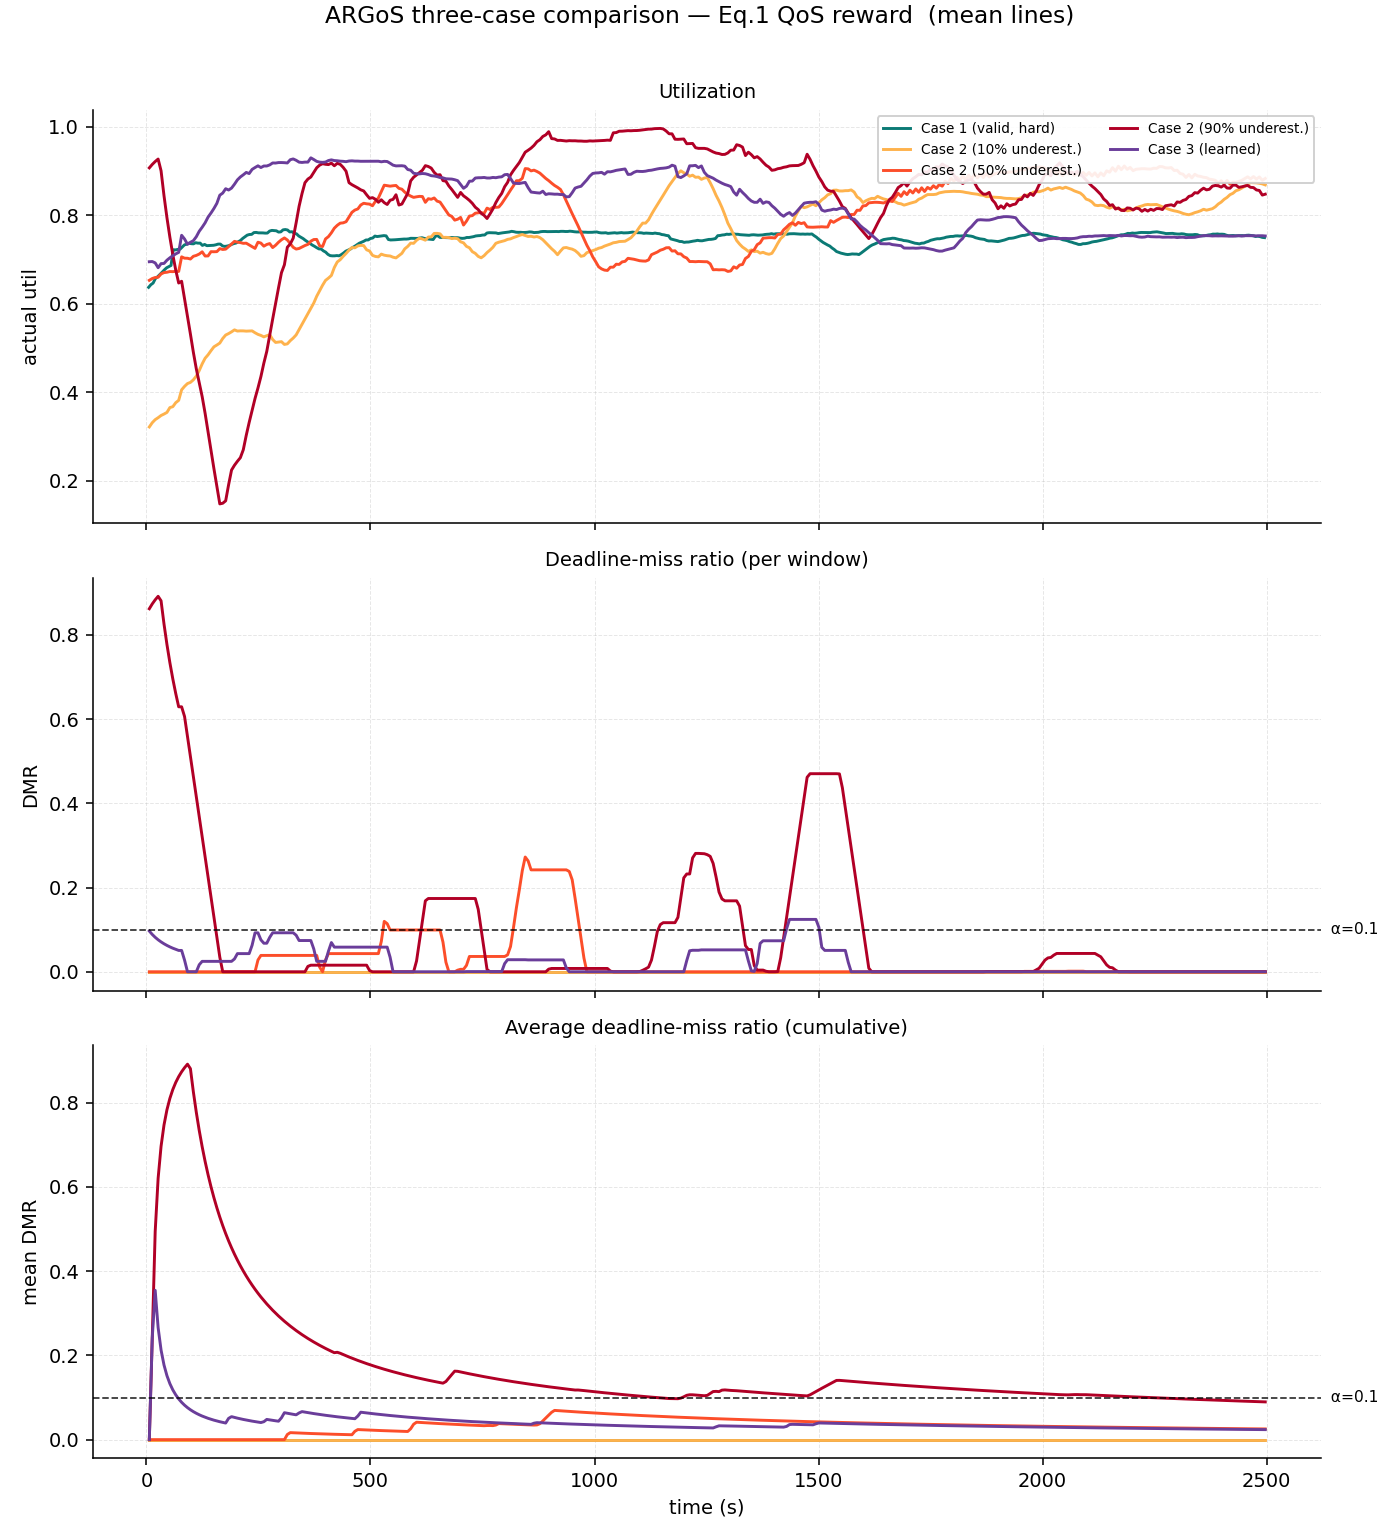
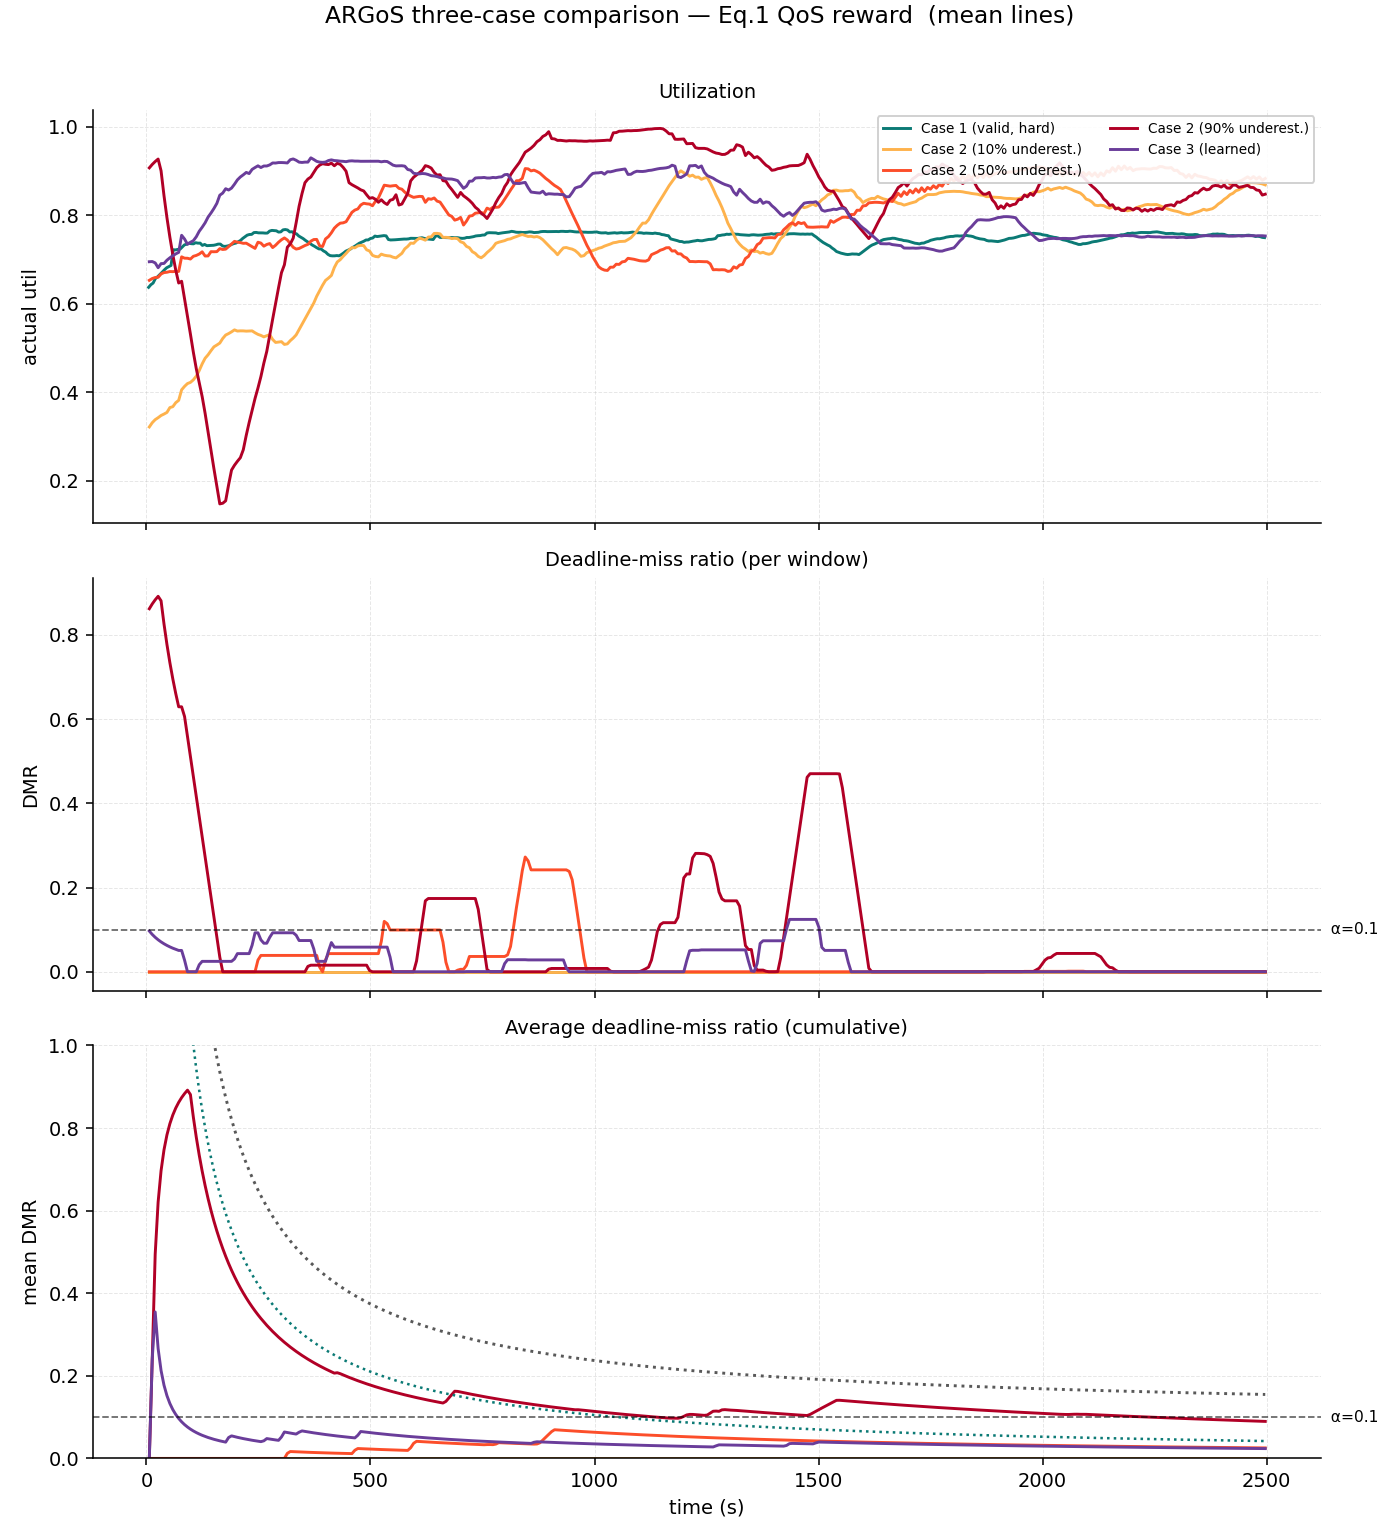
avg-DMR figure: overlay Theorem-1 bound envelopes (alpha=0.1 and alpha=0)
Add the finite-horizon Theorem-1 bound alpha + (f_max+gamma*B)/(gamma*K) as
dashed envelopes on the cumulative-average-DMR panel: one for alpha=0.1 (Cases
2 & 3), one for alpha=0 (Case 1). Every realized curve stays under its bound.
Applied to standalone and combined figures, paper + v2 sets.

diff --git a/scripts/fig_three_cases.py b/scripts/fig_three_cases.py
@@ -191,13 +191,30 @@ def plot():
     small_multiples("util", "Utilization", "actual utilization", ylim=(0, 1.05))
     small_multiples("dmr", "Deadline-miss ratio (per window)", "DMR", hline=ALPHA, ylim=(0, 1.05))
 
-    # ---- cumulative average DMR: overlaid (already smooth; cross-case comparison) ----
+    # ---- cumulative average DMR + Theorem-1 bound ----
+    # Theorem 1 (Eq.14): (1/K) Σ ℓ_k ≤ α + (f_max + γB)/(γK),  B = max(α,1-α), f_max=1, γ=0.05.
+    # Decays like 1/K toward α. Two groups: α=0.1 (Cases 2 & 3) and α=0 (Case 1).
+    GAMMA, FMAX = 0.05, 1.0
+
+    def theorem_bound(tvals, alpha):
+        B = max(alpha, 1.0 - alpha)
+        return [alpha + (FMAX + GAMMA * B) / (GAMMA * (i + 1)) for i in range(len(tvals))]
+
     fig, ax = plt.subplots(figsize=(10, 5))
     for tag, label, color, _ in specs:
         ax.plot(data[tag]["t"], data[tag]["avg_dmr"], color=color, lw=1.6, label=label)
-    ax.axhline(ALPHA, color="black", ls="--", lw=1.0, alpha=0.8)
+    # bound envelopes (dashed), one per distinct α
+    t01 = data["case3"]["t"]
+    ax.plot(t01, theorem_bound(t01, 0.1), color="0.35", ls=":", lw=1.6,
+            label="Theorem-1 bound (α=0.1)")
+    t00 = data["case1"]["t"]
+    ax.plot(t00, theorem_bound(t00, 0.0), color=C1_COLOR, ls=":", lw=1.4,
+            label="Theorem-1 bound (Case 1, α=0)")
+    ax.axhline(ALPHA, color="black", ls="--", lw=1.0, alpha=0.6)
     ax.text(ax.get_xlim()[1], ALPHA, f"  α={ALPHA}", va="center", fontsize=8)
-    ax.set_title(f"Average deadline-miss ratio (cumulative) — {rlabel}", fontsize=11)
+    ax.set_ylim(0, 1.0)
+    ax.set_title(f"Average deadline-miss ratio (cumulative) vs Theorem-1 bound — {rlabel}",
+                 fontsize=11)
     ax.set_ylabel("mean DMR"); ax.set_xlabel("time (s)")
     ax.grid(True, ls="--", alpha=0.3, lw=0.5)
     for sp in ("top", "right"):
@@ -215,8 +232,14 @@ def plot():
         for tag, label, color, _ in specs:
             y = _rollband(data[tag][key])[0] if key != "avg_dmr" else data[tag][key]
             ax.plot(data[tag]["t"], y, color=color, lw=1.5, label=label)
+        if key == "avg_dmr":   # overlay Theorem-1 bound envelopes
+            ax.plot(t01, theorem_bound(t01, 0.1), color="0.35", ls=":", lw=1.5,
+                    label="Theorem-1 bound (α=0.1)")
+            ax.plot(t00, theorem_bound(t00, 0.0), color=C1_COLOR, ls=":", lw=1.3,
+                    label="bound (Case 1, α=0)")
+            ax.set_ylim(0, 1.0)
         if hl is not None:
-            ax.axhline(hl, color="black", ls="--", lw=0.9, alpha=0.8)
+            ax.axhline(hl, color="black", ls="--", lw=0.9, alpha=0.6)
             ax.text(ax.get_xlim()[1], hl, f"  α={hl}", va="center", fontsize=8)
         ax.set_title(title, fontsize=10); ax.set_ylabel(ylab)
         ax.grid(True, ls="--", alpha=0.3, lw=0.5)
